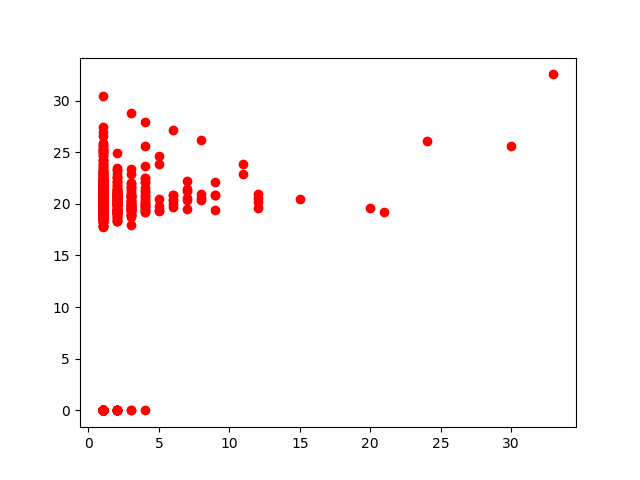
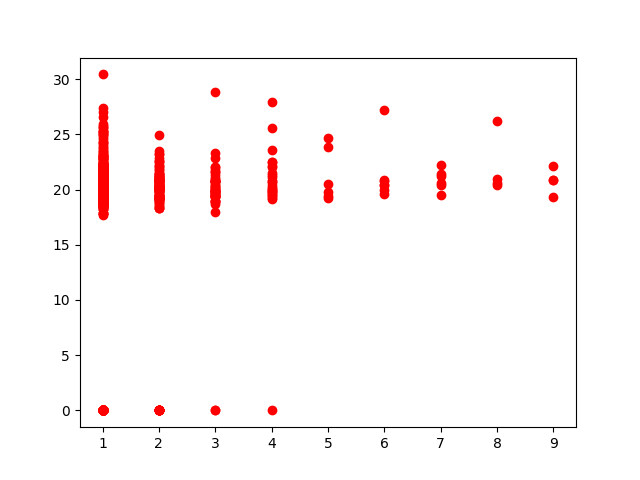
only using terms with dpf <= 10

diff --git a/post_analysis/para_analysis/para_relation_pf.py b/post_analysis/para_analysis/para_relation_pf.py
@@ -153,6 +153,8 @@ def main():
         query_pf = []
 
         for word in pf_map:
+            if pf_map[word] > 10:
+                continue
             word_measure = qrels.measure(doc_vector[word], qid)
             query_measure.append(word_measure)
             query_pf.append(pf_map[word])
